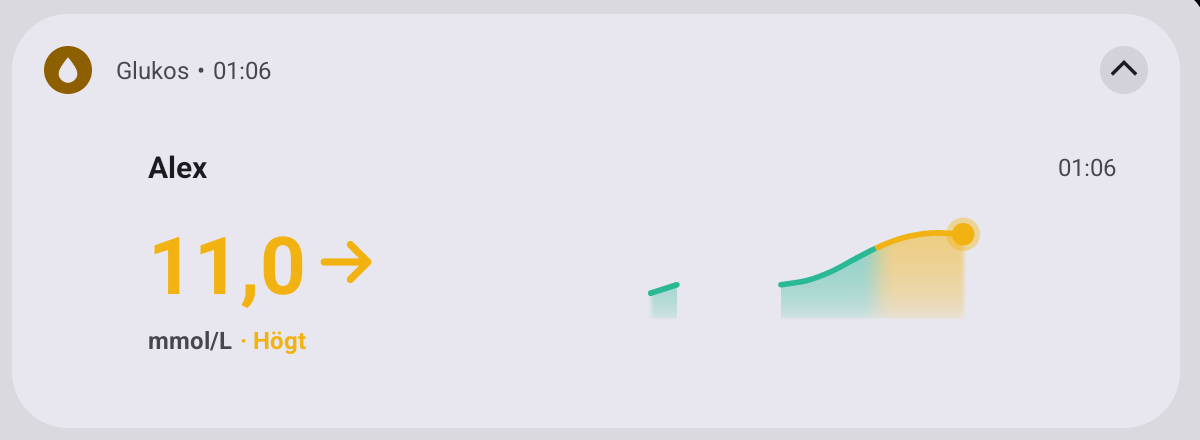
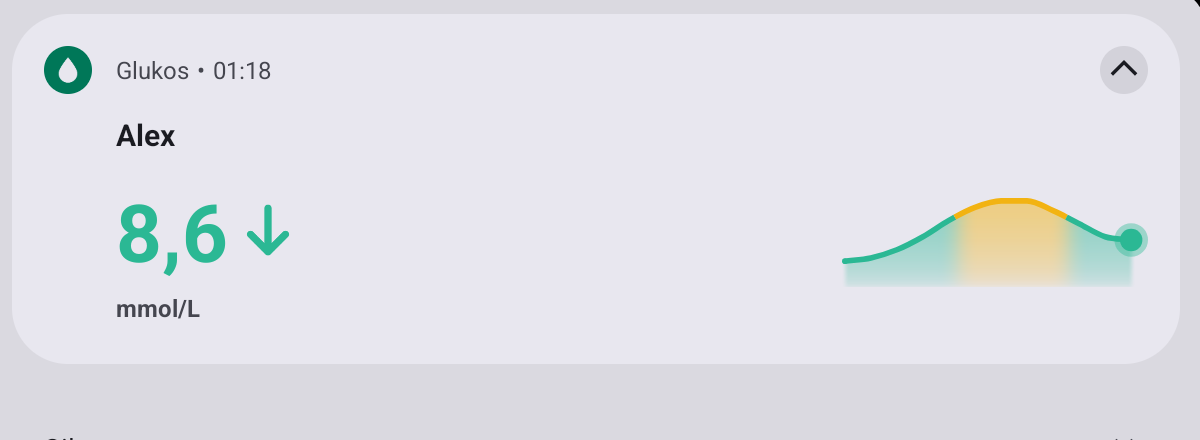
Widgets (Android): a drawn Live Update lines up with the header and counts the age once (#741)
The notification insets its content to the header's app name, so the tree's own padding goes, and the relative date or
timer the header's chronometer shows is left out of the tree. A sparkline's picture sits at the end of its column, where
the iOS line ends, instead of at the start.

diff --git a/src/Plugin.Maui.Spine.Widgets/Platforms/Android/LiveUpdateNotifications.cs b/src/Plugin.Maui.Spine.Widgets/Platforms/Android/LiveUpdateNotifications.cs
@@ -1,5 +1,6 @@
 using System.Runtime.Versioning;
 using System.Text.Json;
+using System.Text.Json.Nodes;
 using Android.App;
 using Android.Content;
 using Android.Graphics.Drawables;
@@ -168,10 +169,29 @@ internal sealed class LiveUpdateNotifications(Context _context, WidgetIcons _ico
     /// <summary>
     /// The Lock Screen tree as the widget renderer draws it, on the notification's own surface: a card of the layout's
     /// background inside the notification's would be a notification in a notification. Semantic colors follow the
-    /// notification's light or dark.
+    /// notification's light or dark. The notification insets its content to the header's text, so the tree's own padding
+    /// goes, and the age or timer the header already counts is not drawn a second time.
     /// </summary>
-    private RemoteViews Banner(JsonElement tree) =>
-        new RemoteViewsRenderer(_context, _icons).Root(tree, tap: null, Resource.Layout.spine_live_update);
+    private RemoteViews Banner(JsonElement tree)
+    {
+        var root = JsonNode.Parse(tree.GetRawText())!.AsObject();
+        root.Remove("padding");
+        if (Chronometer(tree) is not null) Remove(root, Find(tree, "timer") is not null ? "timer" : "relative");
+        using var drawn = JsonDocument.Parse(root.ToJsonString());
+        return new RemoteViewsRenderer(_context, _icons).Root(drawn.RootElement, tap: null, Resource.Layout.spine_live_update);
+    }
+
+    /// <summary>Depth-first, as <see cref="Find"/>: takes the first node of <paramref name="type"/> out of its stack.</summary>
+    private static bool Remove(JsonNode node, string type)
+    {
+        if (node["children"] is not JsonArray children) return false;
+        foreach (var child in children)
+        {
+            if (child?["type"]?.GetValue<string>() == type) return children.Remove(child);
+            if (child is not null && Remove(child, type)) return true;
+        }
+        return false;
+    }
 
     /// <summary>The graph at 16:9, the widest the template draws its large icon; a wider one is cropped at the sides.</summary>
     private Android.Graphics.Bitmap Graph(JsonElement sparkline)

diff --git a/src/Plugin.Maui.Spine.Widgets/Platforms/Android/RemoteViewsRenderer.cs b/src/Plugin.Maui.Spine.Widgets/Platforms/Android/RemoteViewsRenderer.cs
@@ -140,7 +140,7 @@ internal sealed class RemoteViewsRenderer(Context _context, WidgetIcons _icons, 
                 // RemoteViews cannot draw a path either; a picture Aspect times as wide as it is high.
                 var height = (Number(node, "height") ?? 48) * Density;
                 var width = height * (Number(node, "aspect") ?? 3);
-                var views = new RemoteViews(Package, Resource.Layout.spine_widget_image);
+                var views = new RemoteViews(Package, Resource.Layout.spine_widget_sparkline);
                 views.SetImageViewBitmap(Node, Sparkline(node, (int)Math.Max(1, width), (int)Math.Max(1, height)));
                 return views;
             }

diff --git a/docs/wiki/widgets.md b/docs/wiki/widgets.md
@@ -281,7 +281,7 @@ var graph = W.Sparkline(readings.Select(r => (r.Time, r.Value)), now.AddHours(-1
 - **Colour by value.** Inside the band, or without one, the line is `color` (the accent when null). Above the band it is `above` and below it `below`; each defaults to `color`. The curve is split where it crosses an edge of the band, so each colour ends in a cut square to the line rather than a horizontal one. The area under the line takes the line's colour, softened over about 10 points so a change of colour fades across rather than cutting. It is strongest at the height of the line's highest point and fades slowly downwards to clear at the bottom, and it is drawn only under the line. Past the line's two ends it reaches 2 points further and fades out over 4. The dot takes the colour of the last value.
 - **The area is a picture.** The extension draws the area into an image (`ImageRenderer`), and the platform only shows that image. The iPhone's Lock Screen (iOS 27) draws nothing of a gradient mask, nor of a gradient whose colours are all translucent, and it drew a gradient filled path cut off under the line. It also crushes translucent pixels towards black. The Dynamic Island and the simulator drew all of them, so check a graph on a phone. In the island, which is always black, the area is blended onto black beforehand and drawn opaque. The Lock Screen darkens the dim shades of the picture (a share k of the line's colour shows as about k^1.6). The island and CarPlay draw them as they are, so they apply the same curve themselves and all three look alike.
 - **Edges.** The last value sits on the graph's trailing edge, so the graph ends where text aligned to the same edge ends; its dot, and the area's fade, reach over by a few points into the margin. With an area the line starts 2 points in from the leading edge, which leaves room for the fade. In the Dynamic Island, which clips its regions, and on Android, whose picture cannot reach over, the dot stays inside.
-- **Size.** On iOS the line fills the width it is offered, at `height` points (48 by default). Android draws it as a picture `height` dp high and `Aspect` times as wide (3 by default). Android's Live Update template draws the first one as its large icon, and the `Layout` presentation draws it in the tree.
+- **Size.** On iOS the line fills the width it is offered, at `height` points (48 by default). Android draws it as a picture `height` dp high and `Aspect` times as wide (3 by default), at the end of a column, so its latest value is at the right edge, where the iOS line ends. Android's Live Update template draws the first one as its large icon, and the `Layout` presentation draws it in the tree.
 
 ### Backgrounds and boxes
 
@@ -1049,7 +1049,7 @@ A Live Activity on Android 16 is an ongoing notification in one of two presentat
 
 Android forbids custom views in a promoted notification ("custom notifications make consistent testing and UX difficult", in the Live Updates guide), so an app chooses between its own look and the chip. `Automatic` gives the chip where there is one, and the iOS look everywhere else (Android 16.0, Live Updates turned off for the app). `Layout` draws the tree everywhere; `Template` never does.
 
-In `Layout`, the expanded notification is the system's header (app icon, name, the age) over the tree, drawn straight on the notification: a card of `Background` inside the notification's own would be a notification in a notification, so `Background` and `SystemBackground` stay iOS only. The notification is light or dark with the system, so give the tree semantic colors (`WidgetColor.Primary`, `Secondary`) rather than white: on iOS they resolve as in dark mode on a dark Lock Screen (Spine's translucent black, or a dark `Background`), so the same tree is white on black there. The rounded font, `.SingleLine` shrinking and a `W.Relative` written out ("för 2 minuter sedan") are iOS's: Android draws the default font and the age as a chronometer (`02:14`), which keeps counting while the app is not running.
+In `Layout`, the expanded notification is the system's header (app icon, name, the age) over the tree, drawn straight on the notification: a card of `Background` inside the notification's own would be a notification in a notification, so `Background` and `SystemBackground` stay iOS only. The notification already insets its content to line up with the header's app name, so the tree's own padding is dropped, and the `W.Relative` or `W.Timer` the header counts is not drawn a second time in the tree. The notification is light or dark with the system, so give the tree semantic colors (`WidgetColor.Primary`, `Secondary`) rather than white: on iOS they resolve as in dark mode on a dark Lock Screen (Spine's translucent black, or a dark `Background`), so the same tree is white on black there. The rounded font, `.SingleLine` shrinking and a `W.Relative` written out ("för 2 minuter sedan") are iOS's: Android draws the default font and the age as a chronometer (`02:14`), which keeps counting while the app is not running.
 
 The same Glukos layout in each, on Android 17 (API 37) and 16.0:
 

diff --git a/issues/741-widgets-android-live-activity-from-lock-screen-tree.md b/issues/741-widgets-android-live-activity-from-lock-screen-tree.md
@@ -53,6 +53,7 @@ Both are worth having, so the app chooses (`LiveUpdatePresentation`), and the de
 - `WidgetIconAssets.Open` also tries the PascalCase form, so `W.Icon("arrow.up.right")` finds `ArrowUpRight.svg` and keeps the SF Symbol as the iOS fallback (a push can show a trend whose icon the app has not stored).
 - The template's graph is drawn at 16:9: at 2:1 Android cropped its sides, the dot at the end included.
 - `Layout` draws on the notification's own surface instead of a card of `Background` (the owner: "a black blob notification in a notification"). `spine_live_update` has no background, and `Background` / `SystemBackground` are iOS only again.
+- After the owner's next look: `Layout` drops the tree's root padding, since the notification insets its content to the header's app name, and leaves out the `relative` / `timer` node the header's chronometer already shows; a sparkline's picture sits at the end of its column (`spine_widget_sparkline`), where the iOS line ends, instead of at the start.
 - iOS: the Lock Screen banner resolves semantic colors as in dark mode when its tint is dark (Spine's translucent black, or a `Background` with luminance under 0.5), so one tree with `WidgetColor.Primary` / `Secondary` is white on black on iOS and follows the notification on Android. Glukos switches its white text to those.
 
 ## Decisions
@@ -71,6 +72,7 @@ Glukos (demo, Alex) with these packages packed locally (`0.0.0-local`):
 - **Pixel Tablet emulator, Android 16.0**, `Automatic`: `Layout`, as above.
 - `Plugin.Maui.Spine.Server.Tests`: 274 passed.
 - Not tried: a real device, an OEM skin.
+- Tablet after the follow-up: "Alex", the value and the unit line up with "Glukos" in the header, no age in the tree, the graph's end under the expand button; light and dark.
 - Without the card, on the tablet: light mode dark text on the light notification, dark mode light text on the dark one; value, arrow, "Högt" and graph in their colours. iOS's dark scheme compiles (`swiftc -typecheck`) but is not checked on a device or simulator.
 
 - After the follow-ups: the template's graph whole at 16:9 on the phone; on the tablet the arrow drawn bold and centred on the value at 70 % of its size.
